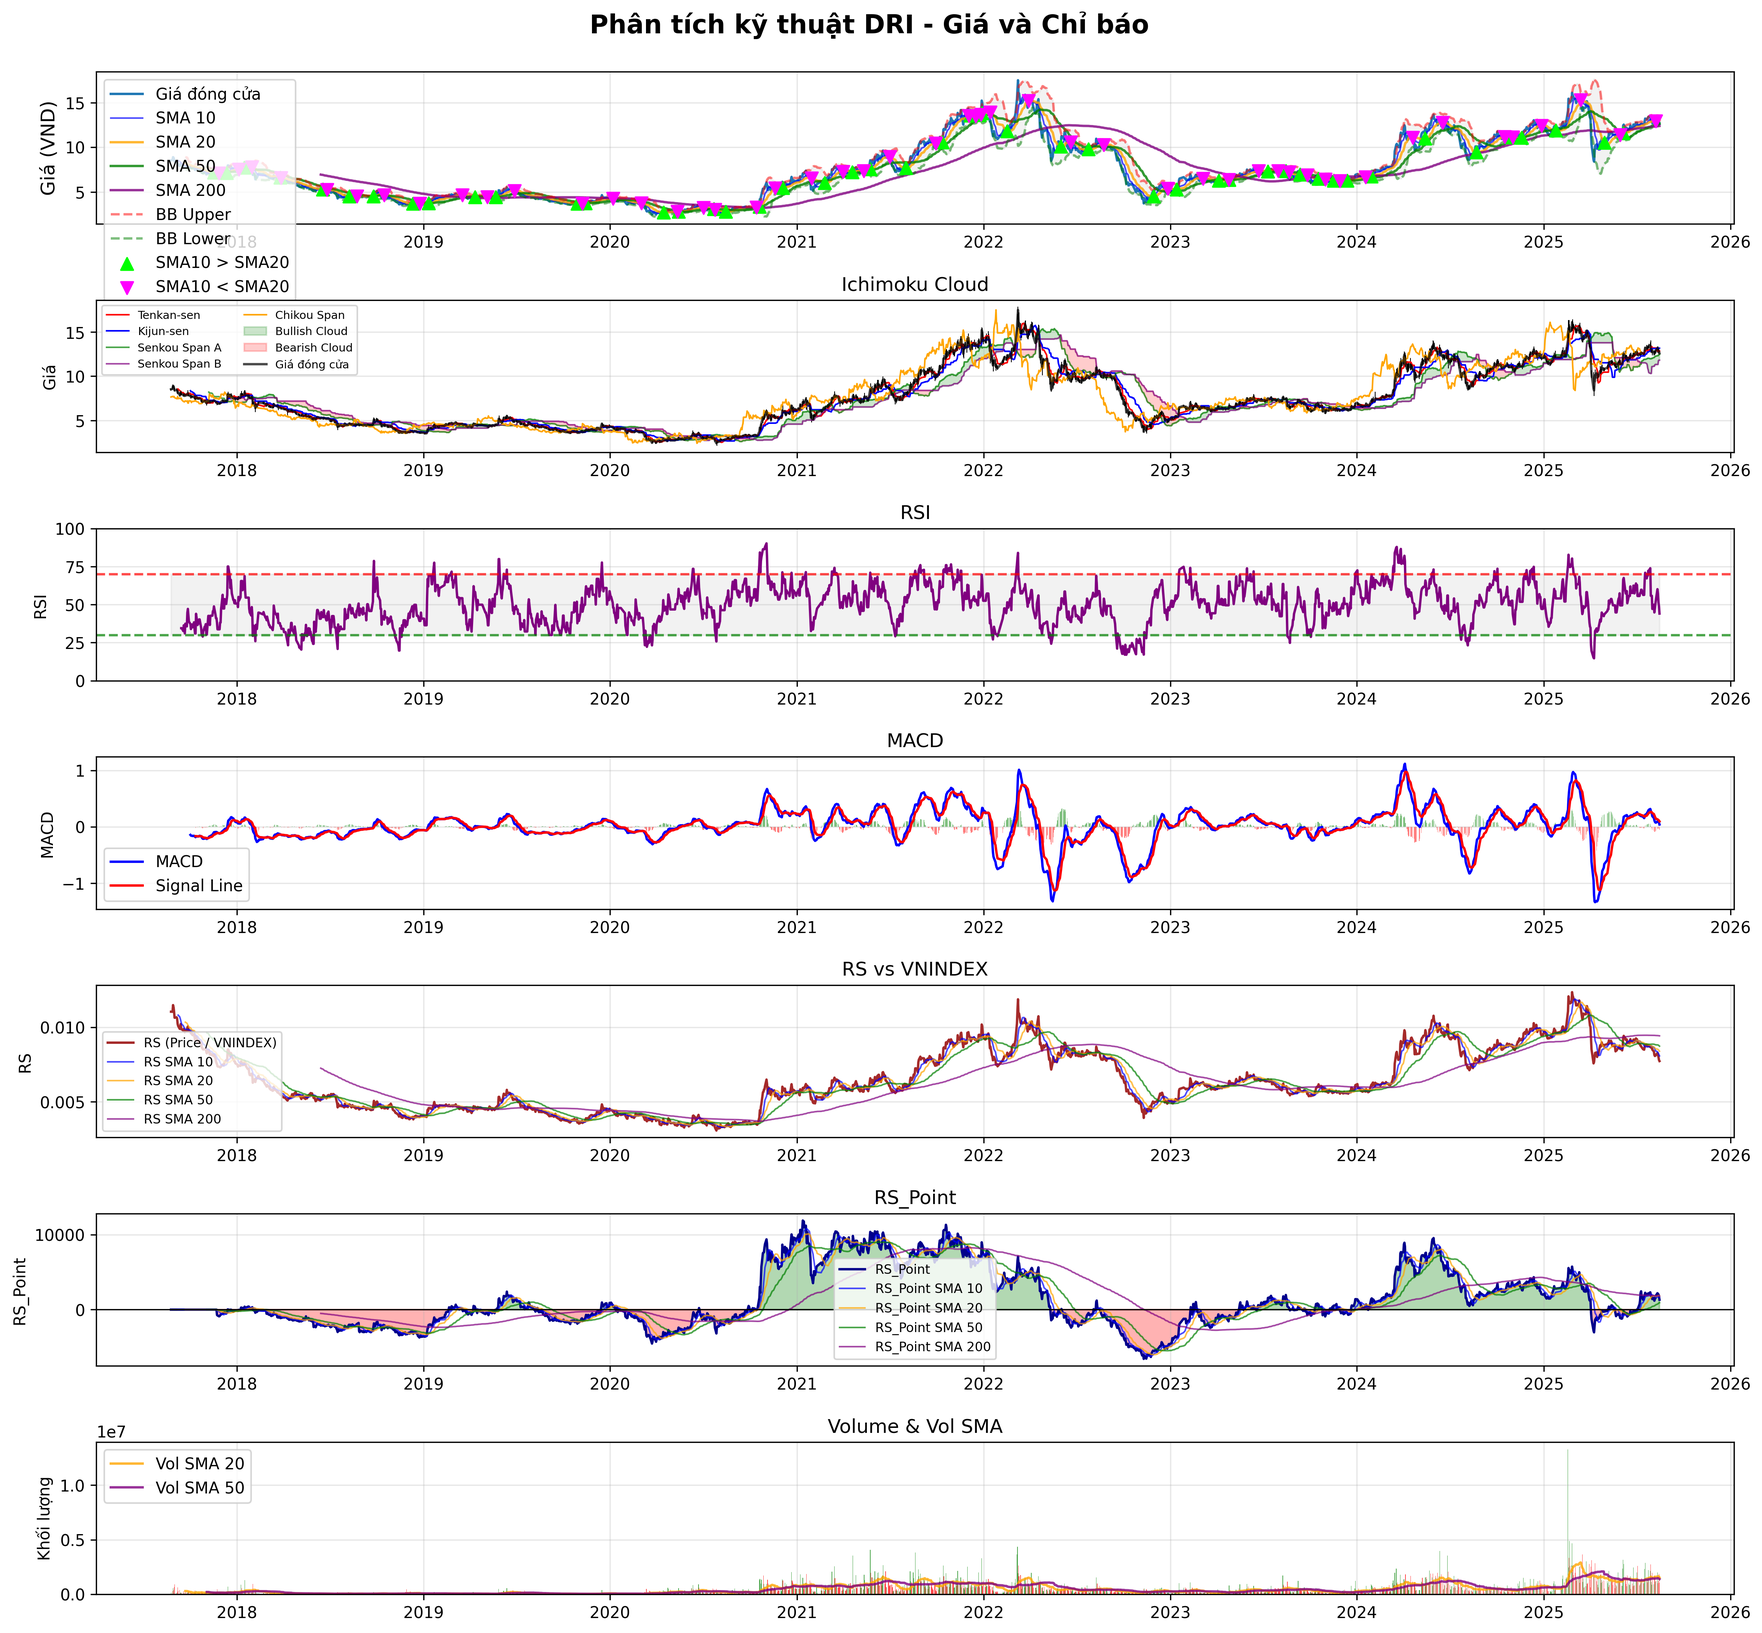
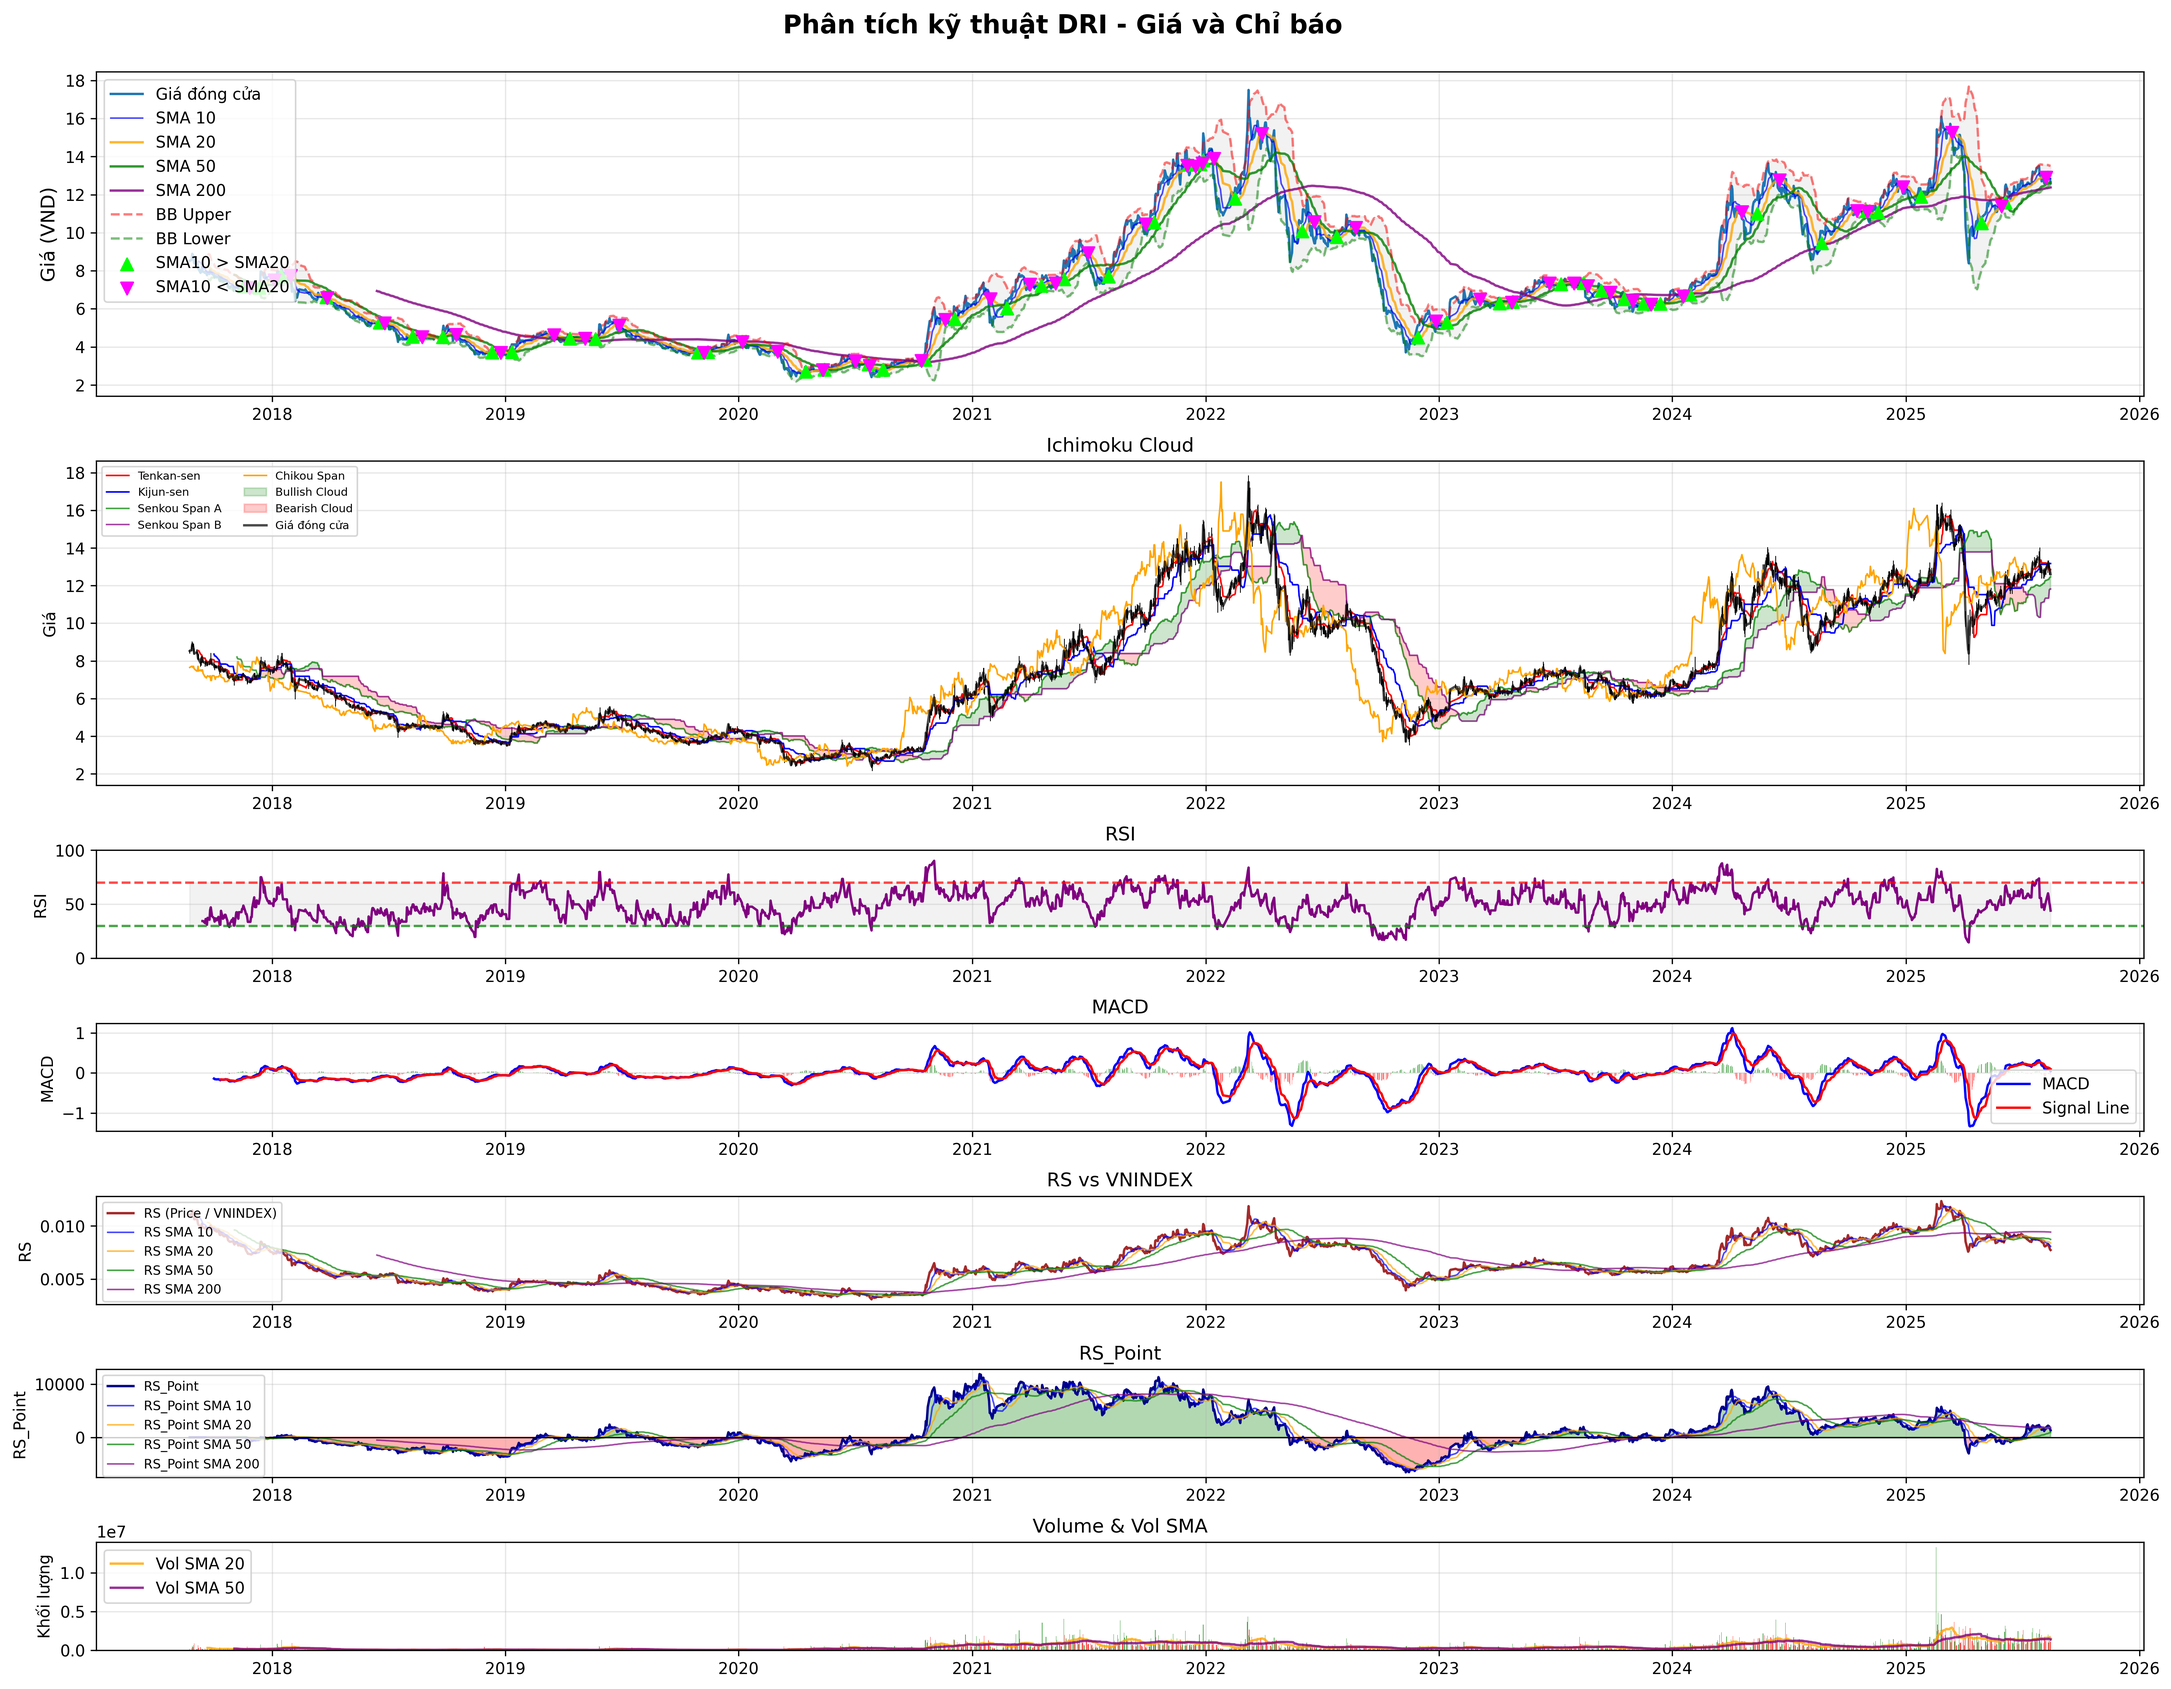
f

diff --git a/main.py b/main.py
@@ -749,14 +749,14 @@ def plot_stock_analysis(symbol, df, show_volume=True):
             ]
             num_subplots = len(plot_configs)  # hoặc đếm số biểu đồ
             height_per_subplot = 2.5
-            width = 16
+            width = 18
             height = num_subplots * height_per_subplot
 
             plt.figure(figsize=(width, height), constrained_layout=True)
 
             # Điều chỉnh GridSpec - GIỮ NGUYÊN 8 HÀNG, TĂNG HSPACE
             grid = plt.GridSpec(
-                8, 1, hspace=0.4, height_ratios=[1, 1, 1, 1, 1, 1, 1, 1]
+                8, 1, hspace=0.4, height_ratios=[3, 3, 1, 1, 1, 1, 1, 1]
             )
 
             # === Biểu đồ 1: Giá và các đường trung bình ===
